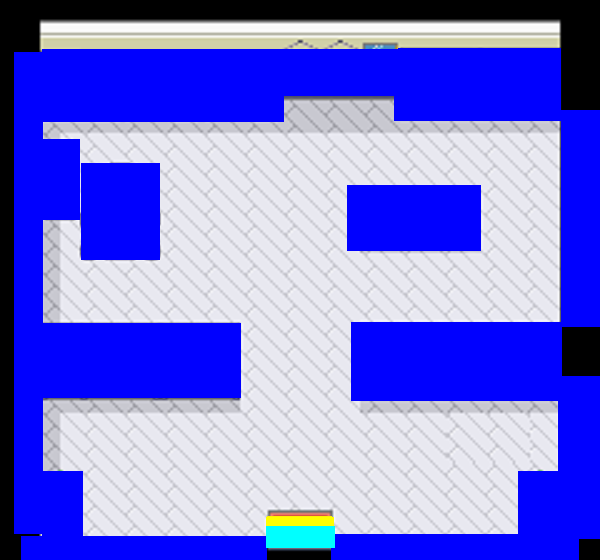
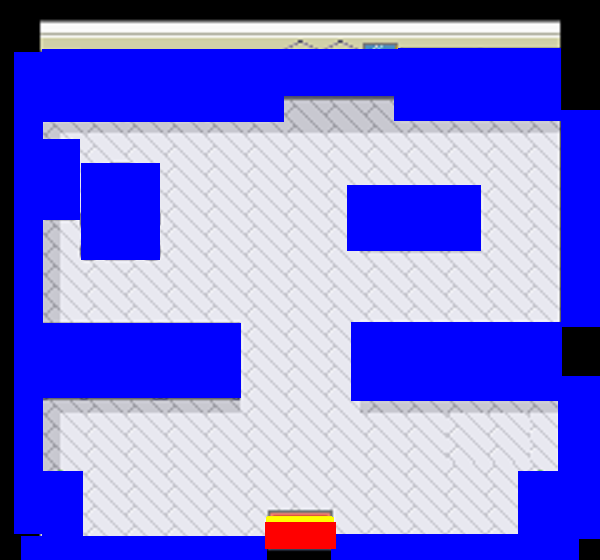
Added players house

Changed region(s): [[0.42, 0.9107, 0.57, 1.0]]

diff --git a/src/MasseyMon.java b/src/MasseyMon.java
@@ -40,6 +40,7 @@ public class MasseyMon extends JFrame {
 }
 
 class GamePanel extends JPanel {
+	private int posIndex;
 	private Image[] backgrounds;
 	private BufferedImage[] backgroundMasks;
 	private Rectangle[] positions;
@@ -64,9 +65,9 @@ class GamePanel extends JPanel {
 	public GamePanel() throws IOException {
 		playerPositionCount = 0;
 
-		backgrounds = new Image[2];
-		for (int i = 0; i < 2; i++) {
-			String path = String.format("%s/%s/%s%d.png", "Images", "Towns", "Background", i + 1);
+		backgrounds = new Image[4];
+		for (int i = 0; i < 4; i++) {
+			String path = String.format("%s/%s/%s%d.png", "Images", "Towns", "Background", i);
 			try {
 				Image pic = ImageIO.read(new File(path));
 				backgrounds[i] = pic;
@@ -74,9 +75,9 @@ class GamePanel extends JPanel {
 			}
 		}
 
-		backgroundMasks = new BufferedImage[2];
-		for (int i = 0; i < 2; i++) {
-			String path = String.format("%s/%s/%s%d%s.png", "Images", "Masks", "Background", i + 1, "Mask");
+		backgroundMasks = new BufferedImage[3];
+		for (int i = 0; i < 3; i++) {
+			String path = String.format("%s/%s/%s%d%s.png", "Images", "Masks", "Background", i, "Mask");
 			try {
 				BufferedImage pic = ImageIO.read(new File(path));
 				backgroundMasks[i] = pic;
@@ -84,24 +85,27 @@ class GamePanel extends JPanel {
 			}
 		}
 
-		positions = new Rectangle[2];
-		for (int i = 0; i < 2; i++) {
+		positions = new Rectangle[3];
+		for (int i = 0; i < 3; i++) {
 			Rectangle rect = new Rectangle((956 - backgrounds[i].getWidth(null)) / 2, (795 - backgrounds[i].getHeight(null)) / 2, backgrounds[i].getWidth(null), backgrounds[i].getHeight(null));
 			positions[i] = rect;
 		}
 
-		playerPositions = new int [2][2];
+		playerPositions = new int [2][4];
 			Scanner inFile = new Scanner (new BufferedReader( new FileReader("Data/PlayerPositions.txt")));
 			while (inFile.hasNextLine()){
 				String line = inFile.nextLine();
 				String [] coordinates = line.split(",");
 				playerPositions[playerPositionCount][0] = Integer.parseInt(coordinates[0]);
 				playerPositions[playerPositionCount][1] = Integer.parseInt(coordinates[1]);
+				playerPositions[playerPositionCount][2] = Integer.parseInt(coordinates[2]);
+				playerPositions[playerPositionCount][3] = Integer.parseInt(coordinates[3]);
 				playerPositionCount ++;
 			}
 			inFile.close();
 
-		picIndex = 0;
+		posIndex = 0;
+		picIndex = 1;
 		pokemon = false;
 		bag = false;
 		menu = false;
@@ -232,17 +236,33 @@ class GamePanel extends JPanel {
 				myGuy.move(direction);
 				if (checkBuilding(Player.getPx(), Player.getPy() - 1, backgroundMasks[picIndex], (int) positions[picIndex].getX(), (int) positions[picIndex].getY()) && checkBuilding(Player.getPx() + 19, Player.getPy() - 1, backgroundMasks[picIndex], (int) positions[picIndex].getX(), (int) positions[picIndex].getY())) {
 					picIndex++;
-					Player.setPx(playerPositions[picIndex][0]);
-					Player.setPy(playerPositions[picIndex][1]);
+					if (posIndex%2!=0) {
+						posIndex++;
+					}
+					Player.setPx(playerPositions[posIndex+1][0]);
+					Player.setPy(playerPositions[posIndex+1][1]);
+				}
+				if (checkBuilding2(Player.getPx(), Player.getPy() - 1, backgroundMasks[picIndex], (int) positions[picIndex].getX(), (int) positions[picIndex].getY()) && checkBuilding2(Player.getPx() + 19, Player.getPy() - 1, backgroundMasks[picIndex], (int) positions[picIndex].getX(), (int) positions[picIndex].getY())) {
+					picIndex--;
+					if (posIndex%2==0) {
+						posIndex--;
+					}
+					Player.setPx(playerPositions[posIndex+1][0]);
+					Player.setPy(playerPositions[posIndex+1][1]);
 				}
 			} else if ((keys[KeyEvent.VK_DOWN] || keys[KeyEvent.VK_S]) && clear(Player.getPx(), Player.getPy() + 27, backgroundMasks[picIndex], (int) positions[picIndex].getX(), (int) positions[picIndex].getY()) && clear(Player.getPx() + 19, Player.getPy() + 27, backgroundMasks[picIndex], (int) positions[picIndex].getX(), (int) positions[picIndex].getY())) {
 				direction = DOWN;
 				myGuy.move(direction);
 
-				if (checkExit(Player.getPx() - 1, Player.getPy() + 27, backgroundMasks[picIndex], (int) positions[picIndex].getX(), (int) positions[picIndex].getY()) && checkExit(Player.getPx() - 1, Player.getPy() + 27, backgroundMasks[picIndex], (int) positions[picIndex].getX(), (int) positions[picIndex].getY())) {
+				if (checkExit1(Player.getPx() - 1, Player.getPy() + 27, backgroundMasks[picIndex], (int) positions[picIndex].getX(), (int) positions[picIndex].getY()) && checkExit1(Player.getPx() - 1, Player.getPy() + 27, backgroundMasks[picIndex], (int) positions[picIndex].getX(), (int) positions[picIndex].getY())) {
 					picIndex--;
-					Player.setPx(playerPositions[picIndex][0]);
-					Player.setPy(playerPositions[picIndex][1]);
+					Player.setPx(playerPositions[posIndex+1][2]);
+					Player.setPy(playerPositions[posIndex+1][3]);
+				}
+				if (checkExit2(Player.getPx() - 1, Player.getPy() + 27, backgroundMasks[picIndex], (int) positions[picIndex].getX(), (int) positions[picIndex].getY()) && checkExit2(Player.getPx() - 1, Player.getPy() + 27, backgroundMasks[picIndex], (int) positions[picIndex].getX(), (int) positions[picIndex].getY())) {
+					picIndex++;
+					Player.setPx(playerPositions[posIndex+1][2]);
+					Player.setPy(playerPositions[posIndex+1][3]);
 				}
 			}
 			else if ((keys[KeyEvent.VK_RIGHT] || keys[KeyEvent.VK_D]) && clear(Player.getPx() + 20, Player.getPy(), backgroundMasks[picIndex], (int) positions[picIndex].getX(), (int) positions[picIndex].getY()) && clear(Player.getPx() + 20, Player.getPy() + 26, backgroundMasks[picIndex], (int) positions[picIndex].getX(), (int) positions[picIndex].getY())) {
@@ -278,8 +298,8 @@ class GamePanel extends JPanel {
 				return c == WALL;
 			}
 
-			private boolean checkExit ( int x, int y, BufferedImage maskPic ,int posX, int posY){
-				int WALL = 0xFF00FFFF;
+			private boolean checkExit1 ( int x, int y, BufferedImage maskPic ,int posX, int posY){
+				int WALL = 0xFFFF0000;
 				if (x < 0 || x >= maskPic.getWidth(null) + posX || y < 0 || y >= maskPic.getHeight(null) + posY) {
 					return false;
 				}
@@ -287,14 +307,23 @@ class GamePanel extends JPanel {
 				return c == WALL;
 			}
 
-			private boolean checkHouse ( int x, int y, BufferedImage maskPic ,int posX, int posY){
-				int WALL = 0xFFFF0000;
+			private boolean checkExit2 ( int x, int y, BufferedImage maskPic ,int posX, int posY){
+				int WALL = 0xFF00FFFF;
 				if (x < 0 || x >= maskPic.getWidth(null) + posX || y < 0 || y >= maskPic.getHeight(null) + posY) {
 					return false;
 				}
 				int c = maskPic.getRGB(x - posX, y - posY);
 				return c == WALL;
 	}
+
+			private boolean checkBuilding2 ( int x, int y, BufferedImage maskPic ,int posX, int posY){
+				int WALL = 0xFFFF00FF;
+				if (x < 0 || x >= maskPic.getWidth(null) + posX || y < 0 || y >= maskPic.getHeight(null) + posY) {
+					return false;
+				}
+				int c = maskPic.getRGB(x - posX, y - posY);
+				return c == WALL;
+			}
 
 
 

diff --git a/src/Player.java b/src/Player.java
@@ -9,7 +9,7 @@ public class Player {
 	private Image[] sprites;
 
 	public Player(int gen) {
-		px = 285;
+		px = 287;
 		py = 285;
 		frame = 6;
 		extra = 0;
